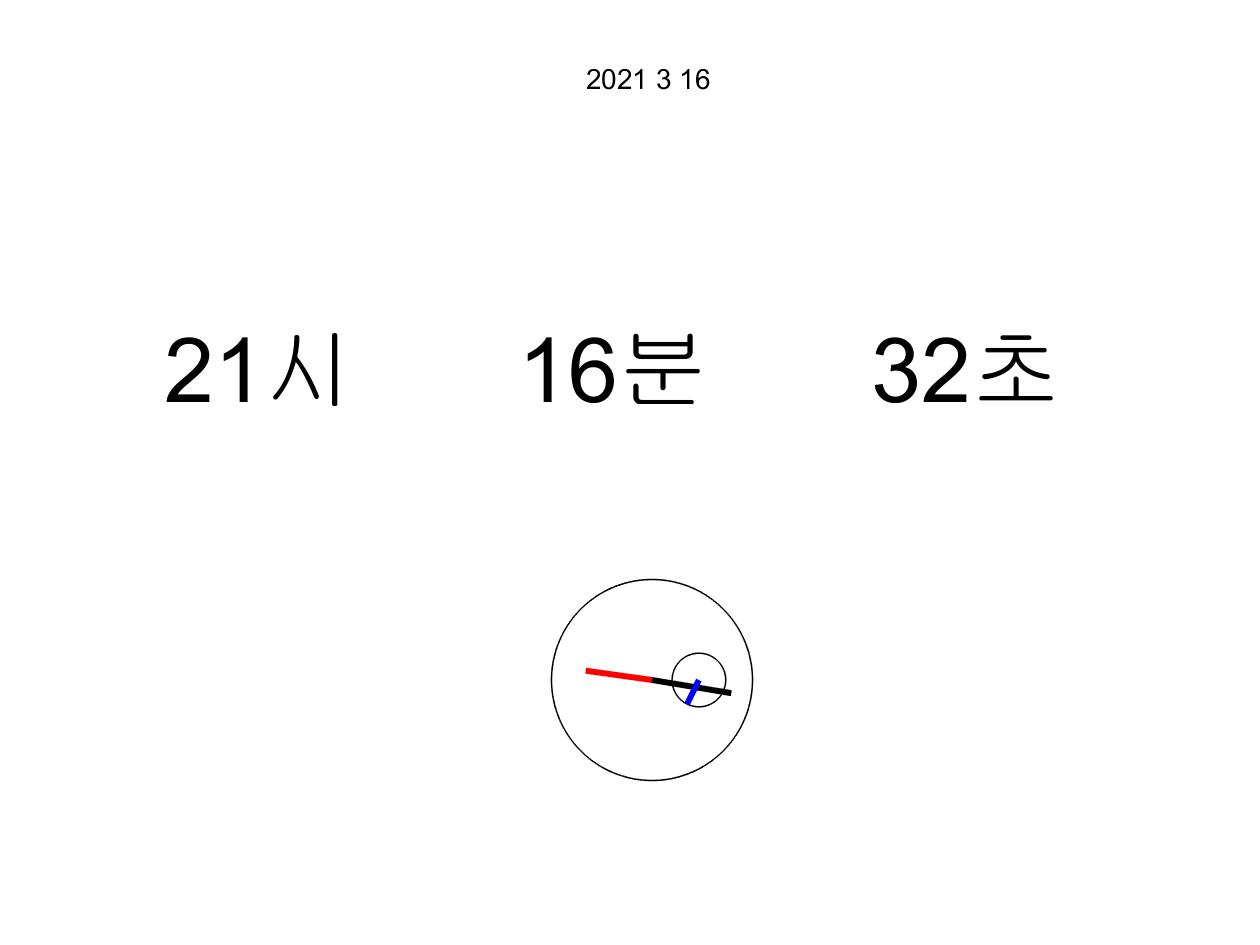
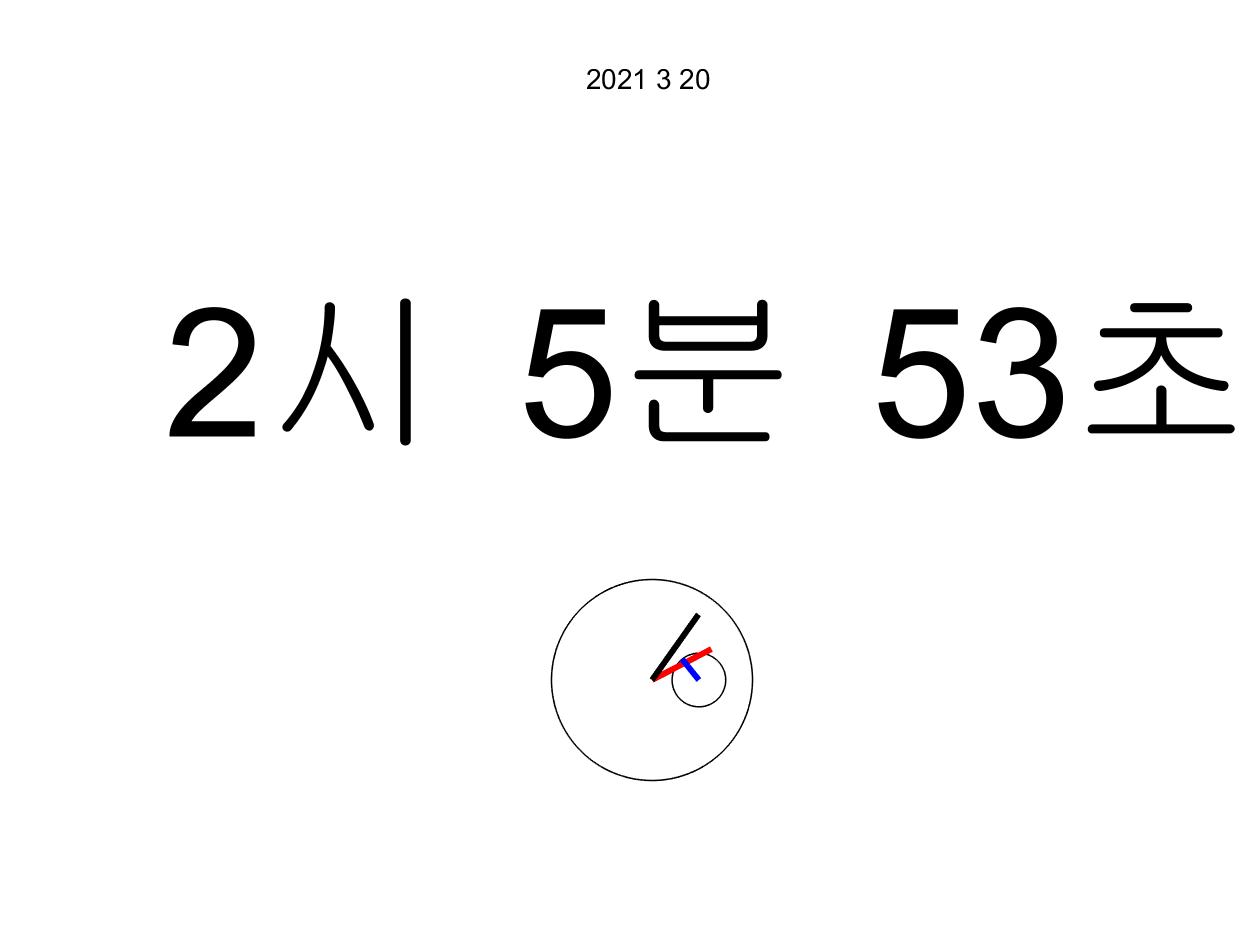
Update: clock example updated / Feature : FFT example added

diff --git a/matlab_clock/assignment.m b/matlab_clock/assignment.m
@@ -4,22 +4,19 @@ Time = clock;
 subplot(2, 3, 1)
 axis square;
 axis off;
-t = text(0, 0, [num2str(Time(4)) '시'])
-t(1).FontSize = 30;
+colckTitle1 = text(0, 0, [num2str(Time(4)) '시'], 'FontSize', 60);
 
 subplot(2, 3, 2)
 axis square;
 axis off;
 title([num2str(Time(1)) ' ' num2str(Time(2)) ' ' num2str(Time(3)) ' ' ])
 
-t = text(0, 0, [num2str(Time(5)) '분'])
-t(1).FontSize = 30;
+colckTitle2 = text(0, 0, [num2str(Time(5)) '분'], 'FontSize', 60);
 
 subplot(2, 3, 3)
 axis square;
 axis off;
-t = text(0, 0, [num2str(fix(Time(6))) '초'])
-t(1).FontSize = 30;
+colckTitle3 = text(0, 0, [num2str(floor(Time(6))) '초'], 'FontSize', 60);
 
 subplot(2, 3, 4)
 axis square;
@@ -73,6 +70,10 @@ while(1)
     set(ClockHand_H, 'XData', [0, hour_x], 'YData', [0, hour_y]);
     set(ClockHand_M, 'XData', [0, min_x], 'YData', [0, min_y]);
     set(ClockHand_S, 'XData', [Small_clock_X, sec_x], 'YData', [0, sec_y]);
+
+    set(colckTitle1, 'String', [num2str(Time(4)) '시'])
+    set(colckTitle2, 'String', [num2str(Time(5)) '분'])
+    set(colckTitle3, 'String', [num2str(floor(Time(6))) '초'])
 
     drawnow;
 end

diff --git a/sampling_theory/fft_example.m b/sampling_theory/fft_example.m
@@ -1,0 +1,29 @@
+fs = 10;
+
+f1 = 3;
+f2 = 7;
+
+t = 0:1/fs:3;
+t_c = 0:0.00001:3
+N = length(t);
+fft_size = 2^15;
+
+y1 = sin(2 * pi * f1 * t);
+y2 = sin(2 * pi * f2 * t);
+y3 = sin(2 * pi * f1 * t_c);
+
+subplot(2, 1, 1)
+plot(t, y1, 'bx:')
+hold on
+
+plot(t, y2, 'r+:')
+plot(t_c, y3, 'k')
+hold off
+
+subplot(2, 1, 2)
+plot((0:fft_size - 1) / fft_size * fs, abs(fft(y1, fft_size)))
+hold on
+plot((0:fft_size - 1) / fft_size * fs, abs(fft(y2, fft_size)), '--')
+hold off
+
+
